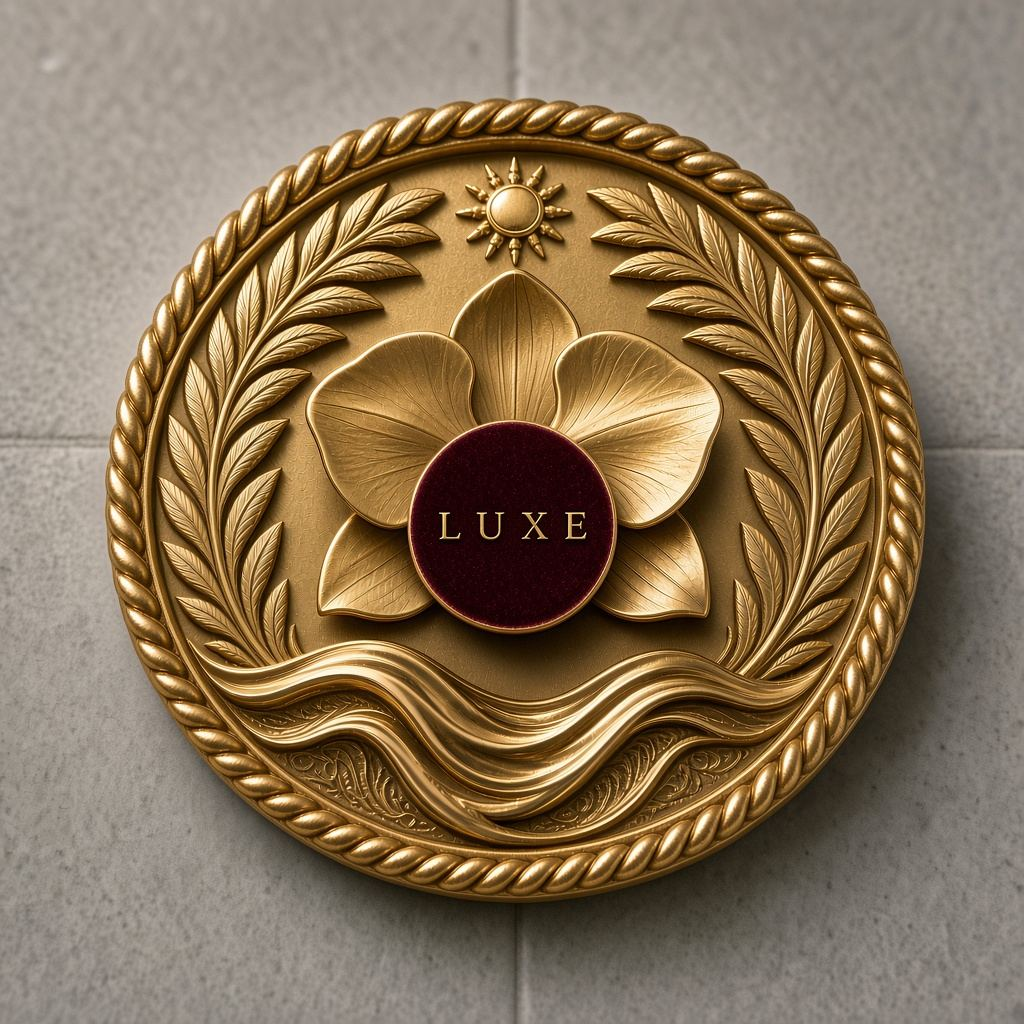
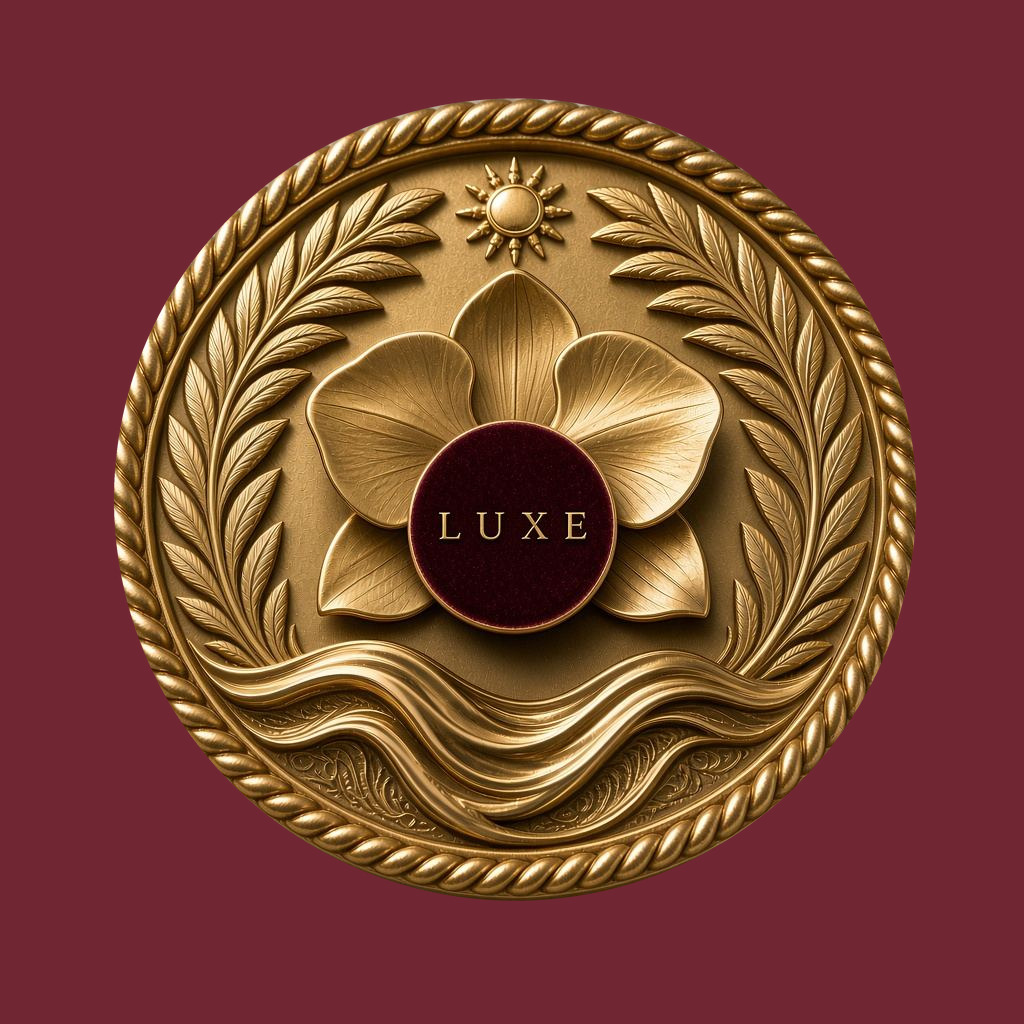
Show shelf burgundy through the Nuit peek medallion (#52)
Replace the peek house mark with the transparent cutout so #712733
shows through the card. Flatten the JPEG twin onto that burgundy,
since JPEG cannot hold alpha, and cache-bust the WebP URL.

diff --git a/index.html b/index.html
@@ -2096,6 +2096,8 @@ html.js .products-campaign__media .envelope-static img { position: static; }
    leave it none until a new master exists. The lift does not need rewiring.
    --shelf-seal is the inner mark. Default is the velvet luxe seal.
    --shelf-house paints a ground behind the face (Nuit's MIAMI medallion).
+   The peek WebP is a flat transparent cutout so shelf burgundy #712733 shows through.
+   The .jpg twin is that same cutout flattened on #712733, because JPEG has no alpha.
    --shelf-velvet, --shelf-gold, and --shelf-miami tint the inner face. */
 .product-card {
   --shelf-plate: none;
@@ -2113,7 +2115,7 @@ html.js .products-campaign__media .envelope-static img { position: static; }
   --shelf-seal-zoom: 146%;
 }
 .product-card--peek-house {
-  --shelf-house: url("spa/products/peek/miami-house-mark.webp");
+  --shelf-house: url("spa/products/peek/miami-house-mark.webp?v=2");
 }
 .product-card__stage {
   position: relative;
